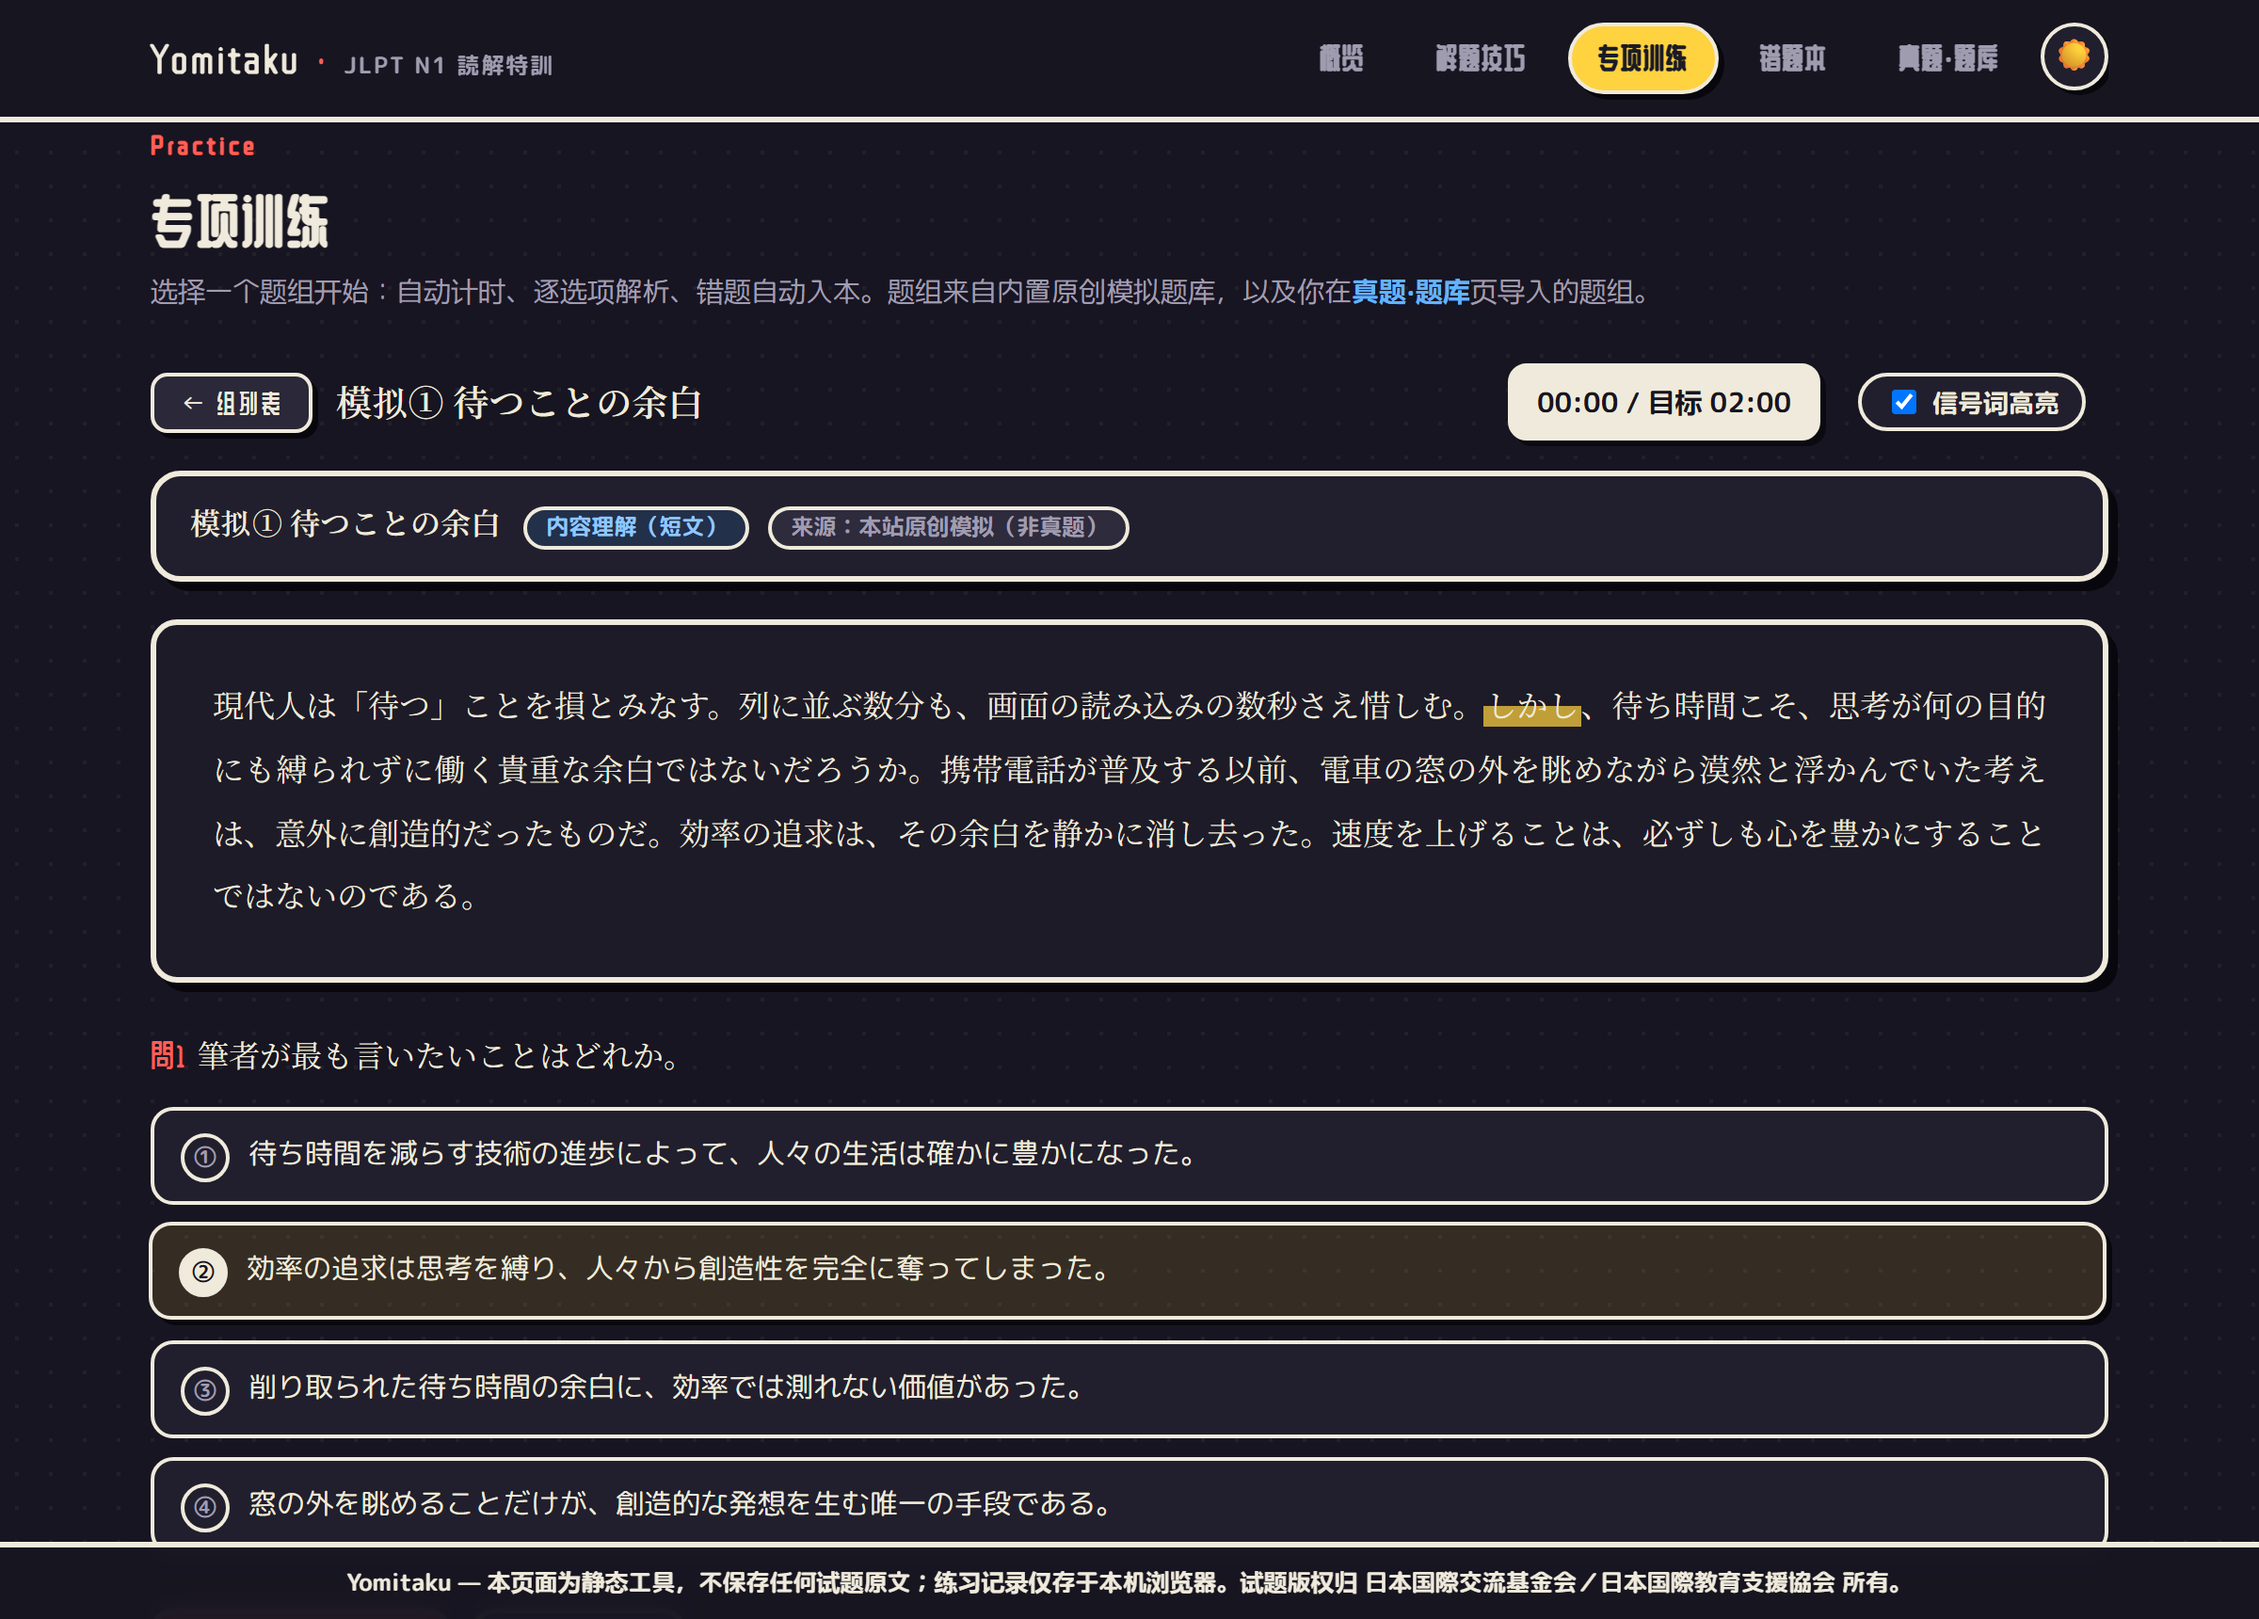
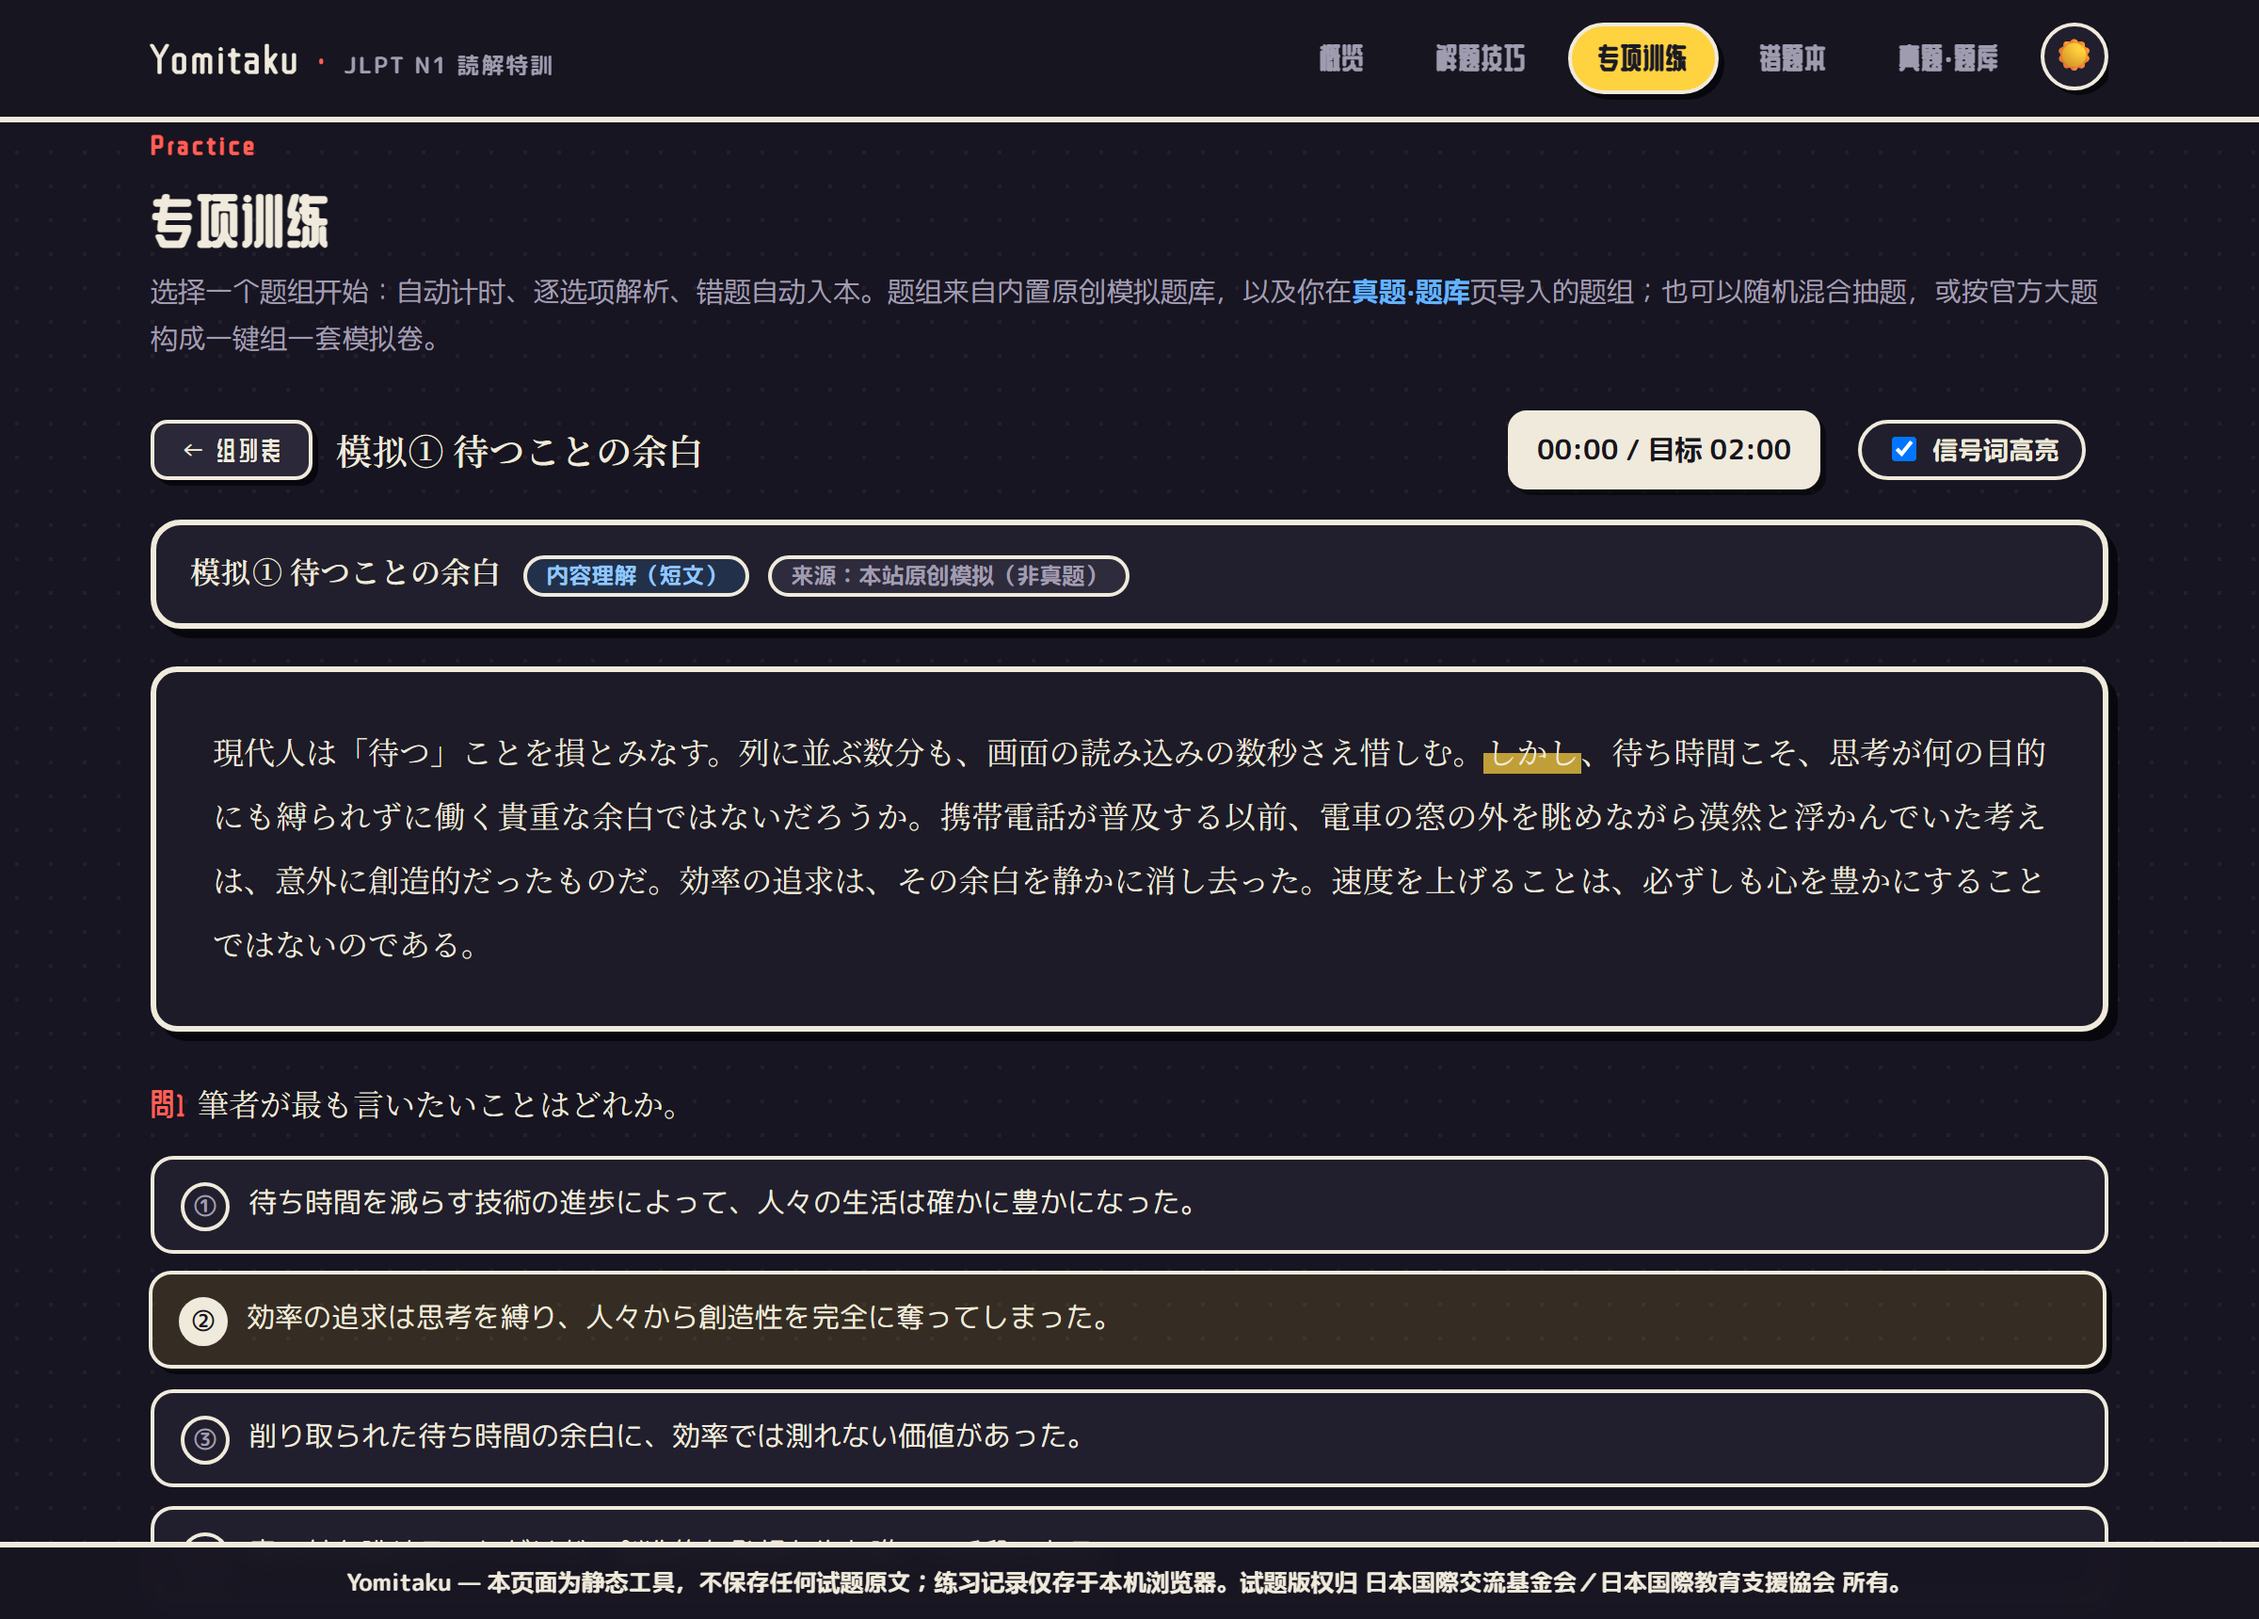
docs: README 同步模拟卷批次——截图补训练入口与模拟卷两张，训练闭环章节更新
- 截图 4→6 张：新增训练入口列表（混合/模拟卷按钮）与模拟卷会话（全局计时）
- 训练闭环 mermaid 与练习步骤加入随机混合/模拟卷说明（中英同步）
- make-screenshots.mjs 对应扩充

Changed region(s): [[0.0625, 0.1849, 0.9375, 0.9552], [0.75, 0.1541, 0.9375, 0.1849]]

diff --git a/README.md b/README.md
@@ -55,9 +55,13 @@
 
 ## 🖼 Screenshots
 
-| Overview | Practice (signal-word highlight) |
+| Overview | Practice entries (mixed drill & mock exam) |
 | --- | --- |
-| ![Overview](docs/shot-home.png) | ![Practice](docs/shot-practice.png) |
+| ![Overview](docs/shot-home.png) | ![Practice entries](docs/shot-list.png) |
+
+| Practice (signal-word highlight) | Mock exam (global timer) |
+| --- | --- |
+| ![Practice](docs/shot-practice.png) | ![Mock exam](docs/shot-mock.png) |
 
 | Per-option explanations | Dark mode (夜の和紙) |
 | --- | --- |
@@ -80,7 +84,7 @@
 ```mermaid
 flowchart LR
     A[📚 Official question structure<br/>問題7〜12] --> B[🧭 Per-type techniques<br/>question-oriented · signal words · elimination]
-    B --> C[⏱ Timed practice<br/>built-in original mock sets / imported sets]
+    B --> C[⏱ Timed practice<br/>single sets · mixed 10 · mock exam]
     C --> D[🔍 Per-option explanations<br/>location + trap classification]
     D --> E[🔁 Mistake notebook<br/>auto-collected · re-drill]
     E --> F[📊 Per-type stats<br/>accuracy · history]
@@ -88,7 +92,7 @@ flowchart LR
 ```
 
 1. **Learn**: study the solution flow, target time and trap checklist for each of the six question types
-2. **Practice**: pick a question set and start; the timer runs against the time budget; signal-word highlighting can be enabled in the reading area
+2. **Practice**: pick a question set, shuffle 10 random questions across all types, or assemble a mock exam; the timer runs against the time budget (a global clock for mixed/mock modes); signal-word highlighting can be enabled in the reading area
 3. **Analyze**: after submitting, per-option explanations classify each error into one of seven trap categories — attribution matters more than volume
 4. **Drill**: mistakes automatically enter the notebook; re-drill with one click until it is cleared
 5. **Review**: the home page aggregates accuracy by question type and practice history for targeted remediation

diff --git a/README.zh-CN.md b/README.zh-CN.md
@@ -55,9 +55,13 @@
 
 ## 🖼 界面预览
 
-| 概览 | 专项训练（信号词高亮） |
+| 概览 | 训练入口（混合 / 模拟卷） |
 | --- | --- |
-| ![概览](docs/shot-home.png) | ![训练](docs/shot-practice.png) |
+| ![概览](docs/shot-home.png) | ![入口](docs/shot-list.png) |
+
+| 训练中（信号词高亮） | 模拟卷（全局计时） |
+| --- | --- |
+| ![训练](docs/shot-practice.png) | ![模拟卷](docs/shot-mock.png) |
 
 | 逐选项解析 | 深色模式（夜の和紙） |
 | --- | --- |
@@ -80,7 +84,7 @@
 ```mermaid
 flowchart LR
     A[📚 官方出题构成<br/>問題7〜12] --> B[🧭 分题型技巧<br/>设问导向 · 信号词 · 消去法]
-    B --> C[⏱ 计时训练<br/>内置原创模拟题 / 自导入题组]
+    B --> C[⏱ 计时训练<br/>题组 · 随机混合 10 问 · 模拟卷]
     C --> D[🔍 逐选项解析<br/>定位 + 陷阱归类]
     D --> E[🔁 错题本<br/>自动收录 · 重练]
     E --> F[📊 按题型统计<br/>正确率 · 历史]
@@ -88,7 +92,7 @@ flowchart LR
 ```
 
 1. **学**：按六大题型学习对应的解题流程、目标用时与陷阱 checklist
-2. **练**：选题组开始训练，计时器对照时间预算；阅读区可开启信号词高亮
+2. **练**：选题组、随机混合抽 10 问，或按官方構成组一套模拟卷；计时器对照时间预算（混合/模拟卷为全局倒计时），阅读区可开启信号词高亮
 3. **析**：提交后逐选项解析，错因归入七类陷阱之一，归因比刷量重要
 4. **刷**：错题自动进入错题本，一键重练直到清零
 5. **看**：首页按题型汇总正确率与练习历史，弱项定向补练
